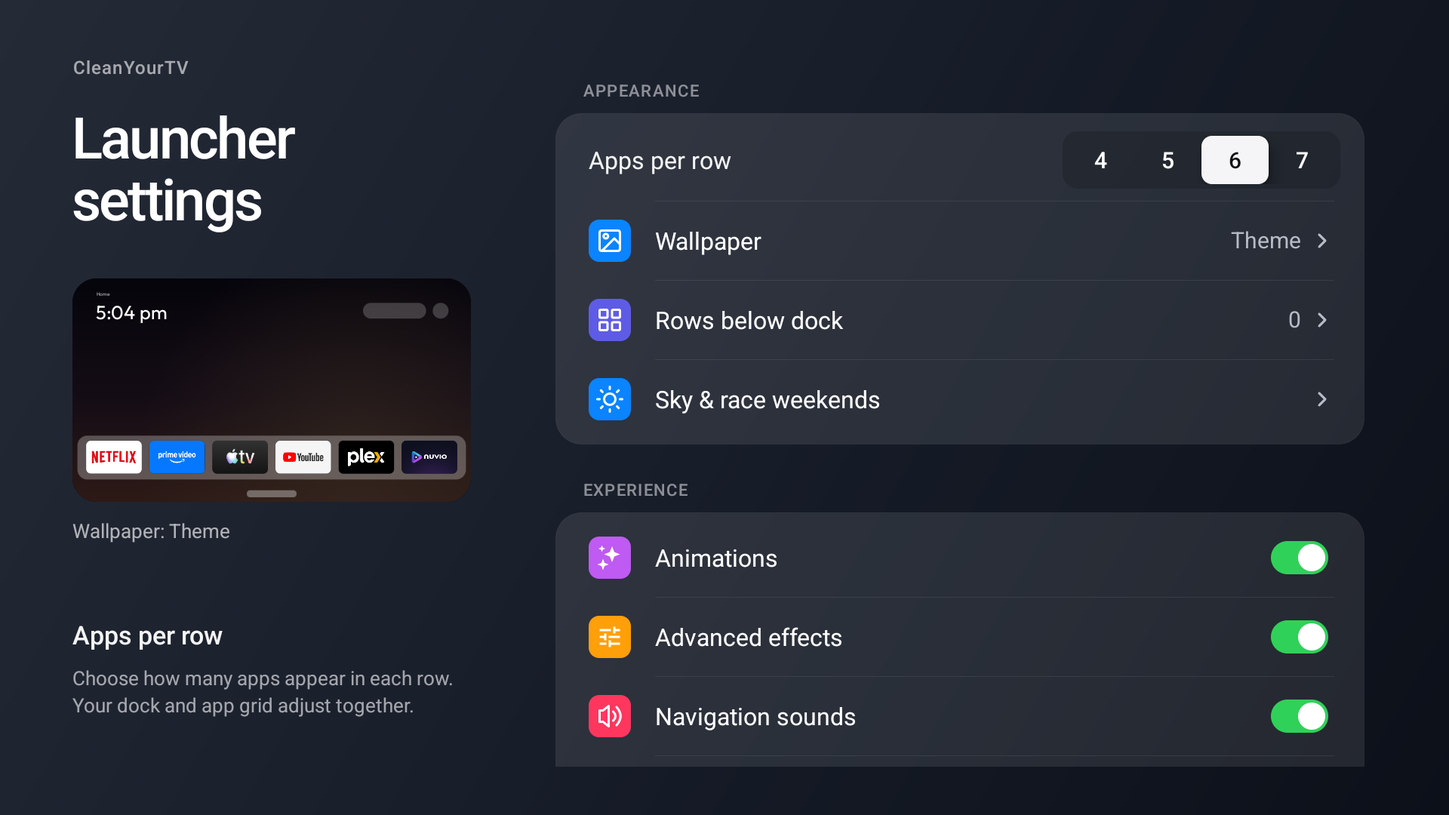
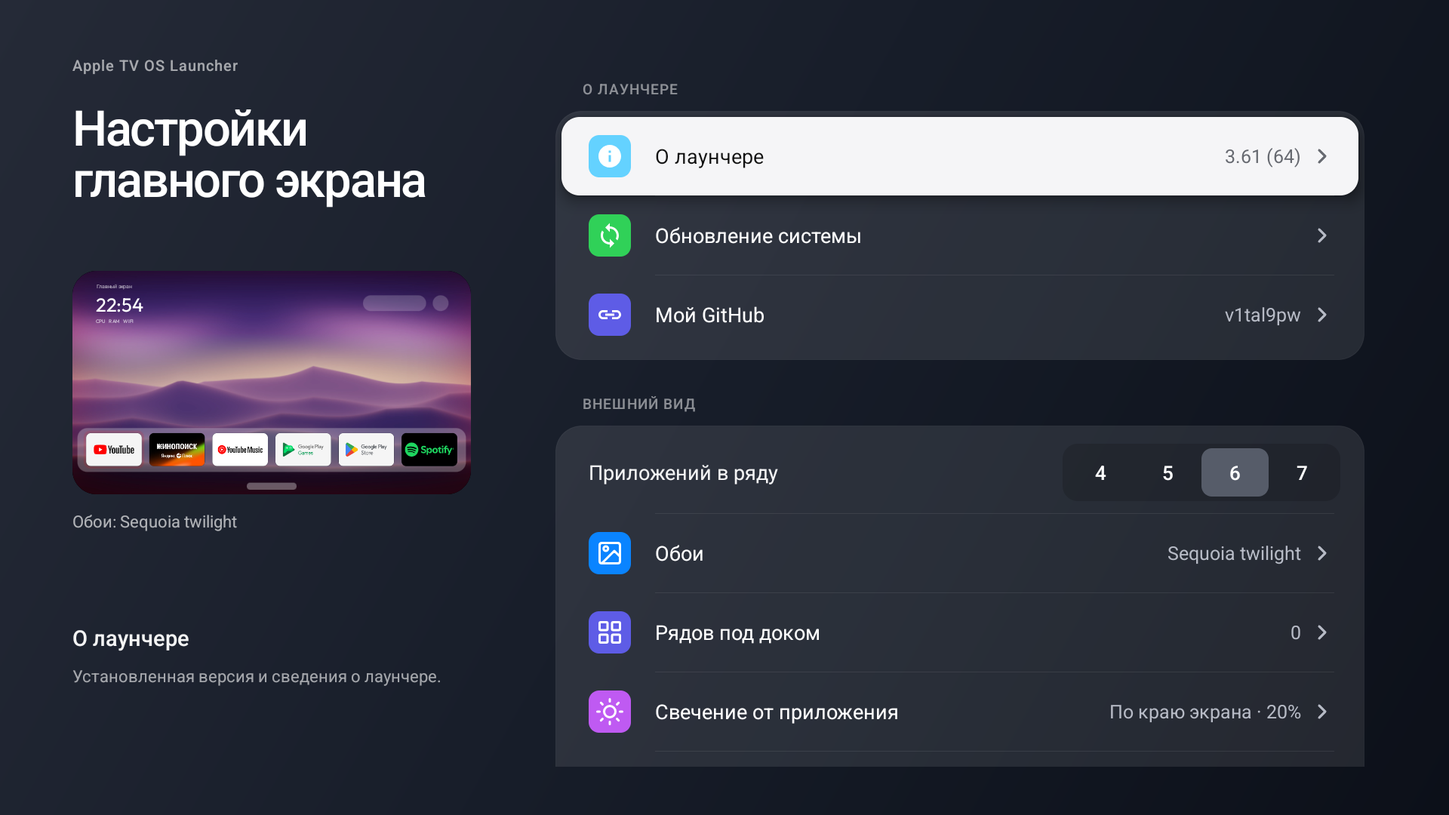
Update README.md and screenshots for v64 (3.61)

diff --git a/README.md b/README.md
@@ -4,9 +4,9 @@
 
 ### Лаунчер для Android TV и Google TV в стиле Apple TV
 
-**Стеклянный док · Настраиваемый главный экран · Управление с пульта**
+**Стеклянный док · 4K-обои · Плавная панель управления · Системная очистка · Управление с пульта**
 
-[Возможности](#возможности) · [Скриншоты](#скриншоты) · [Установка](#установка-и-сборка) · [Авторы](#авторы-и-оригинальный-проект)
+[Возможности](#возможности) · [Скриншоты](#скриншоты) · [Управление](#управление) · [Установка](#установка-и-сборка) · [Авторы](#авторы-и-оригинальный-проект)
 
 </div>
 
@@ -14,39 +14,51 @@
 
 **v1tal9 TV Launcher** — моя версия [Apple TV OS Launcher](https://github.com/iyashwant/apple-tv-os-launcher) для телевизоров и приставок на Android TV / Google TV.
 
-**Версия 3.56 (v59) подготовлена для TCL C6K с Google TV 14.** Настройка Home и помощника кнопок проверена на этом телевизоре. BAT-файлы для настройки и восстановления находятся в папке [`launcher/`](launcher/); порядок работы описан в [`RELEASES.md`](launcher/RELEASES.md).
+**Актуальная версия: `3.61 (v64)`** — оптимизирована и проверена для **TCL C6K с Google TV 14** (совместима и с другими Android TV / Google TV устройствами на Android 8.0+). Готовые сборки доступны в [GitHub Releases](https://github.com/v1tal9pw/tv_launcher_apple/releases), подробная история изменений — в [`launcher/RELEASES.md`](launcher/RELEASES.md), а BAT-скрипты настройки и восстановления — в папке [`launcher/`](launcher/).
 
-В v59 добавлены новая панель управления, импорт фото и видеообоев и профиль очистки CleanYourTV. Новые функции пока не проверены на физическом TCL C6K.
+Цель проекта — быстрый, плавный и минималистичный домашний экран в стиле tvOS, который полностью управляется с пульта и гибко настраивается под себя. Это независимая модификация с сохранением указания на авторов исходного проекта.
 
-Цель проекта — удобный минималистичный домашний экран с оформлением в духе tvOS, который можно подстроить под себя. Это независимая модификация с сохранением указания на авторов исходного проекта.
-
-![Главный экран с прозрачным доком](docs/screenshots/readme/home.png)
+![Главный экран с прозрачным доком и 4K-обоями](docs/screenshots/readme/home.png)
 
 ## Возможности
 
-- **Главный экран в стиле tvOS:** полупрозрачный док, скруглённые карточки, анимации и понятное выделение выбранного элемента.
-- **Приложения и папки:** избранные приложения в доке, общая сетка приложений, изменение порядка и группировка в папки.
-- **Управление с пульта:** навигация крестовиной, открытие приложений кнопкой OK, дополнительные действия по удержанию OK или кнопке Menu.
-- **Быстрые настройки:** переход к Bluetooth, звуку, дисплею, заставке, приложениям и системным параметрам телевизора (доступность отдельных пунктов зависит от прошивки).
-- **Персонализация:** изменение числа столбцов, оформление карточек и названий приложений, темы, обои, прозрачность дока и анимации.
-- **Библиотека приложений:** просмотр установленных приложений и управление их отображением на главном экране.
-- **Часы и заставка:** отображение часов в режиме ожидания; дополнительные фоновые и атмосферные эффекты.
-- **Продолжить просмотр:** дополнительная полка для совместимых приложений, которые предоставляют сведения о незавершённом просмотре через Android TV.
-- **Назначение кнопок пульта:** настройка поддерживаемых физических кнопок; для работы назначений за пределами главного экрана может потребоваться служба специальных возможностей.
+- **Главный экран в стиле tvOS:** полупрозрачный стеклянный док с регулируемой непрозрачностью (`30%–100%`), скруглённые карточки (`4–7` в ряду), настраиваемое число рядов под доком, приветствие, часы, дата и системная статистика (ОЗУ и свободная память).
+- **4K-обои в стиле Apple и свои фото/видео:**
+  - 6 встроенных 4K-обоев (`3840×2160`): *Apple Aurora*, *Monterey Waves*, *Ventura Bloom*, *Sonoma Horizon*, *Sequoia Twilight* и *Tahoe Liquid Glass* с полноцветным декодированием (`ARGB_8888`), автосменой и регулируемым затемнением.
+  - Импорт собственных фото и видеообоев (до Full HD, 30 к/с, 200 МБ; встроенное видео «Вулканическое побережье»).
+  - Удаление пользовательских обоев прямо в настройках с подтверждением и автоматическая проверка пути — если исходный файл удалён в «Файлах», он автоматически убирается из списка обоев, а активный фон сбрасывается на обои по умолчанию.
+- **Плавная панель управления (Control Center):**
+  - Аппаратно ускоренная tvOS-анимация без микро-пролагов с заранее размытым фоном.
+  - Открывается кнопкой **«Шестерёнка»** на пульте (включая код TCL `83`), удержанием **«Домой»** или другой назначенной кнопкой — работает как на главном экране, так и поверх сторонних приложений (YouTube и др.).
+  - Возврат по кнопке **«Назад»** из любых открытых настроек снова открывает панель управления с фокусом на выбранной плитке.
+  - Быстрые плитки: **Заставка**, **Wi-Fi**, **Источники** (стеклянный выбор HDMI / AV / Live TV прямо в оверлее без закрытия активного приложения), **Спецвозможности**, **Аудиовыход**, **Bluetooth** (переход в «Пульты и аксессуары»), **Экран**, **Звук**, **Приложения** и **Системная очистка**.
+- **Системная очистка через локальный ADB:**
+  - Одним нажатием в панели управления закрывает фоновые сторонние и тяжёлые медиаприложения, очищает фоновые процессы и кэш с автоматической защитой лаунчера, активного приложения, VPN, клавиатуры и служб спецвозможностей; показывает число закрытых приложений и освобождённую ОЗУ.
+  - Поддержка профиля очистки CleanYourTV для TCL C6K с резервным копированием и восстановлением.
+- **Свечение от приложения (App Glow):** выбор стиля (*За доком*, Ambilight-свечение *По краю экрана*, *Горизонт* или полное *Выключение*), настройка интенсивности (`Выкл`, `20%–100%`) и отдельный переключатель ореола вокруг выбранной плитки.
+- **Папки с автоназванием и библиотека приложений:** при создании папки автоматически предлагается категория по приложению (*Кино и ТВ*, *Музыка*, *Игры*, *Браузеры*, *VPN и сеть*, *Утилиты* и др.); доступно переименование, замена, скрытие приложений, кастомные иконки и удобная библиотека всех установленных приложений.
+- **Виджет погоды:** актуальная температура, ощущаемая температура, ветер и город на языке системы с выбором компактного размера шрифта (`8, 10, 12, 14, 16, 20, 24`, по умолчанию `12`).
+- **Системные звуки навигации везде:** единый звуковой движок озвучивает переходы и подтверждения на главном экране, в панели управления, во всех настройках лаунчера, окне очистки, меню источников и библиотеке приложений.
+- **Настройки с живым предпросмотром и OTA-обновления:** изменения обоев, сетки и свечения сразу видны на миниатюре главного экрана; встроенная проверка новых релизов на GitHub со списком изменений.
+- **Продолжить просмотр, часы-заставка и настройка пульта:** полка незавершённого просмотра для совместимых приложений Android TV, часы в режиме ожидания и гибкое переназначение кнопок пульта (`1× / 2× / 3×` нажатия) через службу специальных возможностей.
 
-> Некоторые возможности зависят от версии Android, прошивки телевизора и установленных приложений. Проект развивается, поэтому работа отдельных функций на конкретных моделях не гарантируется.
+> Некоторые возможности (переключение входов, локальный ADB, Bluetooth-раздел, полка «Продолжить просмотр») зависят от версии Android, прошивки телевизора и установленных приложений.
 
 ## Скриншоты
 
-**Главный экран и приложения**
+**Сетка приложений и библиотека**
 
-![Сетка приложений](docs/screenshots/readme/app-grid.png)
+![Сетка приложений и библиотека](docs/screenshots/readme/app-grid.png)
 
-**Быстрые настройки**
+**Панель управления на главном экране**
 
-![Панель быстрых настроек](docs/screenshots/readme/quick-settings.png)
+![Панель управления на главном экране](docs/screenshots/readme/quick-settings.png)
 
-**Настройки внешнего вида и поведения**
+**Панель управления поверх приложений**
+
+![Панель управления поверх сетки приложений](docs/screenshots/readme/inputs.png)
+
+**Настройки главного экрана с живым предпросмотром**
 
 ![Настройки лаунчера](docs/screenshots/readme/launcher-settings.png)
 
@@ -54,31 +66,32 @@
 
 ![Меню действий с приложением](docs/screenshots/readme/f1-tv-menu.png)
 
-**Выбор источника сигнала**
-
-![Меню источников](docs/screenshots/readme/inputs.png)
-
 ## Управление
 
 | Действие | Кнопка пульта |
 |---|---|
 | Перемещение по интерфейсу | Стрелки ↑ ↓ ← → |
 | Открыть приложение или пункт | **OK** |
-| Открыть дополнительные действия | **Удержание OK** или **Menu** |
-| Развернуть список приложений | **Вниз** из дока |
-| Перейти к верхним элементам | **Вверх** из дока |
+| Открыть меню действий с приложением | **Удержание OK** или **Menu** |
+| Открыть / закрыть панель управления | **Шестерёнка (Настройки)** или **Удержание «Домой»** |
+| Развернуть сетку приложений и библиотеку | **Вниз** из дока |
 | Закрыть меню или вернуться назад | **Назад / Back** |
 
 ## Совместимость
 
 - **Платформа:** Android TV / Google TV.
 - **Минимальная версия:** Android 8.0 (API 26).
+- **Целевое проверенное устройство:** TCL C6K (Google TV 14).
 - **Для сборки:** JDK 17, Android SDK Platform 34 и Build Tools 34.0.0.
 - **Среда разработки:** Android Studio или Gradle из командной строки.
 
-Интерфейс рассчитан на управление пультом телевизора. Совместимость с конкретными устройствами и производительностью 4K-интерфейса нужно проверять отдельно.
+Интерфейс рассчитан на управление пультом телевизора и оптимизирован для 4K-экранов.
 
 ## Установка и сборка
+
+### Готовый APK (GitHub Releases)
+
+Скачай последний `tvhome-*.apk` со страницы [Releases](https://github.com/v1tal9pw/tv_launcher_apple/releases) и установи на телевизор через файловый менеджер или ADB — либо обновись прямо из раздела **Настройки главного экрана → Обновление системы**.
 
 ### Через Android Studio (Windows)
 
@@ -113,14 +126,14 @@ adb connect IP_ТЕЛЕВИЗОРА:ПОРТ
 adb install -r launcher/app/build/outputs/apk/release/app-release.apk
 ```
 
-Команды установки приведены для запуска **из корня репозитория**. При необходимости выбери новый лаунчер в настройках приложения «Главный экран» телевизора.
+Команды установки приведены для запуска **из корня репозитория**. При необходимости выбери новый лаунчер в настройках приложения «Главный экран» телевизора или воспользуйся `launcher/tcl-home-handover.bat`.
 
 **Важно:** не отключай и не удаляй штатный лаунчер до проверки работы нового. Для обновления уже установленного APK требуется та же подпись, что у предыдущей версии. Идентификатор пакета по умолчанию: `com.gathin.tvhome`.
 
 ## Документация
 
-- Инструкции для ИИ-агентов — [AGENTS.md](AGENTS.md).
-
+- [История релизов и изменений](launcher/RELEASES.md)
+- [Инструкции для ИИ-агентов](AGENTS.md)
 - [Описание возможностей](docs/features.md)
 - [Библиотека приложений](docs/app-library.md)
 - [Темы и оформление](themes/README.md)
@@ -131,7 +144,7 @@ adb install -r launcher/app/build/outputs/apk/release/app-release.apk
 
 **Соавторы этой версии:** [v1tal9](https://github.com/v1tal9pw) и [Денис (sicarioden)](https://github.com/sicarioden).
 
-**Помощь в разработке:** OpenAI Codex (ИИ-помощник).
+**Помощь в разработке:** ИИ-ассистенты (OpenAI Codex / Claude / Gemini).
 
 **Оригинальный проект, на котором основана эта версия:** [iyashwant / apple-tv-os-launcher](https://github.com/iyashwant/apple-tv-os-launcher). Спасибо автору за основу интерфейса и проделанную работу.
 
@@ -143,6 +156,6 @@ adb install -r launcher/app/build/outputs/apk/release/app-release.apk
 
 <div align="center">
 
-Сделано и адаптируется [v1tal9](https://github.com/v1tal9pw) и [Денисом (sicarioden)](https://github.com/sicarioden) при помощи OpenAI Codex · [Репозиторий](https://github.com/v1tal9pw/tv_launcher_apple)
+Сделано и адаптируется [v1tal9](https://github.com/v1tal9pw) и [Денисом (sicarioden)](https://github.com/sicarioden) · [Репозиторий](https://github.com/v1tal9pw/tv_launcher_apple)
 
 </div>
